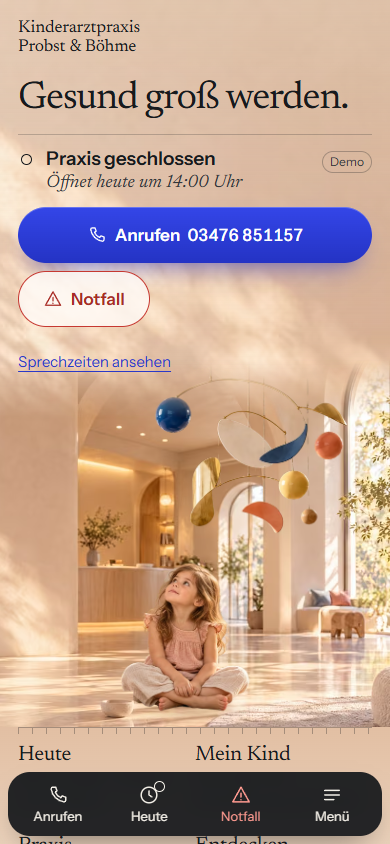
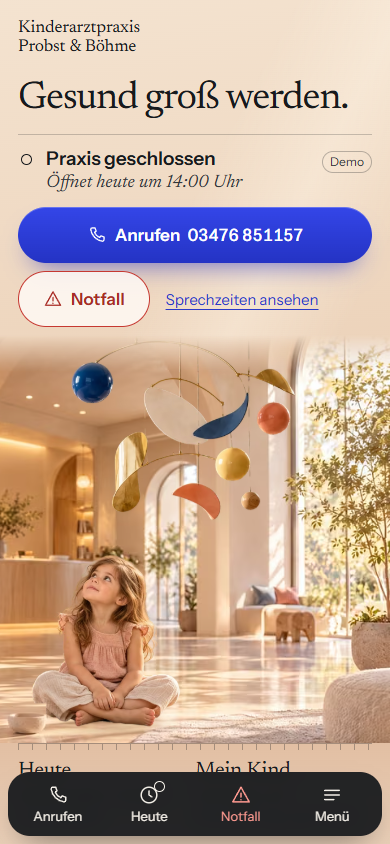
fix: mobile hero shows the room once, without duplicated architecture
Phones/portrait used the room photo twice at two scales (wall behind the
text zone + a band cropped from 36 %), stacking the wall corner and opening
arch into an impossible room. Now: plain CSS plaster wall for the text zone
and one controlled crop of the master's right half (corridor, window,
mobile, child) for the scene band. Follow-up link moved beside Notfall.
Desktop unchanged.

diff --git a/src/lab/final/signature.module.css b/src/lab/final/signature.module.css
@@ -73,11 +73,13 @@
   position: relative;
   display: flex;
   flex-direction: column;
-  /* phones: the sunlit wall of the plate carries the text zone */
+  /* phones: a plain plaster wall in daylight carries the text zone. Pure CSS — no
+     photo here, so no architecture can appear twice (the room photo lives only in
+     the scene band below). Light falls in from the window side (right). */
   background:
-    linear-gradient(180deg, rgb(246 231 214 / 0.55) 0%, rgb(246 231 214 / 0.2) 40%, transparent 70%),
-    image-set(url("/hero/room-960.avif") type("image/avif"), url("/hero/room-960.webp") type("image/webp")) 9% 0 / auto 780px no-repeat,
-    var(--wall);
+    radial-gradient(90% 55% at 100% 100%, rgb(255 241 222 / 0.75) 0%, transparent 70%),
+    linear-gradient(118deg, transparent 38%, rgb(255 246 232 / 0.4) 52%, transparent 66%),
+    linear-gradient(170deg, #f4e3d0 0%, var(--wall) 55%, #e8c9ad 100%);
 }
 .content {
   order: 1;
@@ -88,23 +90,27 @@
   /* clears the header; rem so it grows with enlarged text */
   padding: calc(var(--space-5) + 4rem) var(--space-gutter) 0;
 }
+/* Phones / portrait: ONE controlled crop of the master — its right half only
+   (x 50–100 %, y 4–96.5 %): corridor, window, mobile and child, each exactly once.
+   The wall corner and the big opening arch (x < 50 %) are deliberately excluded,
+   so nothing repeats the wall zone above. Never stretched, tiled or extended. */
 .scene {
   order: 2;
   position: relative;
   z-index: 1;
-  --bw: 172%;
-  height: calc(min(172vw, 64rem) / 1.7684 * 0.97);
-  margin-top: calc(-1 * var(--space-6));
+  --bw: 200%;
+  aspect-ratio: 1 / 1.0461; /* = 0.5 × 2688 wide : 0.925 × 1520 high */
+  margin-top: var(--space-3);
   overflow: hidden;
-  -webkit-mask-image: linear-gradient(180deg, transparent 0, #000 16%);
-  mask-image: linear-gradient(180deg, transparent 0, #000 16%);
+  -webkit-mask-image: linear-gradient(180deg, transparent 0, #000 9%);
+  mask-image: linear-gradient(180deg, transparent 0, #000 9%);
 }
 .frame {
   position: absolute;
   aspect-ratio: 2688 / 1520;
   width: var(--bw);
-  left: calc((100% - var(--bw)) * 0.86);
-  top: 0;
+  left: -100%;
+  top: -4.32%; /* 4 % of the frame height, expressed in scene height */
 }
 .plate {
   position: absolute;
@@ -339,19 +345,17 @@
   background: #fff;
 }
 .follow {
-  margin: 0;
-  font-size: var(--text-small);
-}
-.follow a {
   display: inline-flex;
   align-items: center;
   min-height: var(--target-min);
+  padding: 0 var(--space-2);
+  font-size: var(--text-small);
   color: #2a39c8;
   text-underline-offset: 4px;
 }
 .call:focus-visible,
 .emergency:focus-visible,
-.follow a:focus-visible,
+.follow:focus-visible,
 .path:focus-visible,
 .back:focus-visible,
 .menuButton:focus-visible,
@@ -592,10 +596,6 @@
   .paths {
     grid-template-columns: repeat(4, minmax(0, 1fr));
   }
-  .scene {
-    --bw: 150%;
-    height: calc(min(150vw, 96rem) / 1.7684 * 0.97);
-  }
 }
 
 /* ================= desktop composition ================= */
@@ -668,6 +668,7 @@
     position: absolute;
     inset: 0;
     height: auto;
+    aspect-ratio: auto;
     margin: 0;
     z-index: 0;
     container-type: size;

diff --git a/src/lab/final/hero-stage.tsx b/src/lab/final/hero-stage.tsx
@@ -122,12 +122,12 @@ export function HeroStage({ initial, children }: { initial: PathId | null; child
         <div className={s.scene} aria-hidden="true">
           <div className={s.frame}>
             <picture>
-              <source type="image/avif" srcSet="/hero/room-960.avif 960w, /hero/room-1600.avif 1600w, /hero/room-2400.avif 2400w" sizes="(max-width: 63.99em) 170vw, max(100vw, 177svh)" />
+              <source type="image/avif" srcSet="/hero/room-960.avif 960w, /hero/room-1600.avif 1600w, /hero/room-2400.avif 2400w" sizes="(max-width: 63.99em) 200vw, max(100vw, 177svh)" />
               <img
                 className={s.plate}
                 src="/hero/room-1600.webp"
                 srcSet="/hero/room-960.webp 960w, /hero/room-1600.webp 1600w, /hero/room-2400.webp 2400w"
-                sizes="(max-width: 63.99em) 170vw, max(100vw, 177svh)"
+                sizes="(max-width: 63.99em) 200vw, max(100vw, 177svh)"
                 width={W}
                 height={H}
                 alt=""
@@ -147,8 +147,8 @@ export function HeroStage({ initial, children }: { initial: PathId | null; child
               style={{ left: pct(MOBILE.x, W), top: pct(MOBILE.y, H), width: pct(MOBILE.w, W) }}
             >
               <picture>
-                <source type="image/avif" srcSet="/hero/mobile-420.avif 420w, /hero/mobile-830.avif 830w" sizes="(max-width: 63.99em) 55vw, 32vw" />
-                <img src="/hero/mobile-830.webp" srcSet="/hero/mobile-420.webp 420w, /hero/mobile-830.webp 830w" sizes="(max-width: 63.99em) 55vw, 32vw" width={MOBILE.w} height={MOBILE.h} alt="" decoding="async" />
+                <source type="image/avif" srcSet="/hero/mobile-420.avif 420w, /hero/mobile-830.avif 830w" sizes="(max-width: 63.99em) 62vw, 32vw" />
+                <img src="/hero/mobile-830.webp" srcSet="/hero/mobile-420.webp 420w, /hero/mobile-830.webp 830w" sizes="(max-width: 63.99em) 62vw, 32vw" width={MOBILE.w} height={MOBILE.h} alt="" decoding="async" />
               </picture>
               {el ? (
                 <span
@@ -160,12 +160,12 @@ export function HeroStage({ initial, children }: { initial: PathId | null; child
 
             {/* the child, seated low, looking up at the mobile */}
             <picture>
-              <source type="image/avif" srcSet="/hero/child-300.avif 300w, /hero/child-570.avif 570w" sizes="(max-width: 63.99em) 36vw, 22vw" />
+              <source type="image/avif" srcSet="/hero/child-300.avif 300w, /hero/child-570.avif 570w" sizes="(max-width: 63.99em) 43vw, 22vw" />
               <img
                 className={s.child}
                 src="/hero/child-570.webp"
                 srcSet="/hero/child-300.webp 300w, /hero/child-570.webp 570w"
-                sizes="(max-width: 63.99em) 36vw, 22vw"
+                sizes="(max-width: 63.99em) 43vw, 22vw"
                 width={CHILD.w}
                 height={CHILD.h}
                 alt=""

diff --git a/src/lab/final/entry-chrome.tsx b/src/lab/final/entry-chrome.tsx
@@ -67,12 +67,13 @@ export function PulsStatement({ puls }: { puls: DemoPuls }) {
           <Icon name="alert" size={20} />
           <span>Notfall</span>
         </a>
+        {/* the state's follow-up sits beside Notfall when there is room */}
+        {follow ? (
+          <a className={s.follow} href={FOLLOW_UP[follow.kind]}>
+            {follow.label}
+          </a>
+        ) : null}
       </div>
-      {follow ? (
-        <p className={s.follow}>
-          <a href={FOLLOW_UP[follow.kind]}>{follow.label}</a>
-        </p>
-      ) : null}
     </section>
   );
 }

diff --git a/docs/reviews/phase-06-2-reference-to-code-review.md b/docs/reviews/phase-06-2-reference-to-code-review.md
@@ -186,3 +186,33 @@ Photographic, from the plate. Code adds only:
 - `npm run build` ✓ · `npm run typecheck` ✓ · `npm test` 75 / 75 ✓
 - Routes 200: `/`, `/lab`, `/lab/a`, `/lab/b`, `/lab/c`, `/lab/final`, `/design-system`
 - PRAXIS PULS logic unchanged (domain untouched; all five demo states render).
+
+---
+
+## Addendum — mobile hero correction (Phase 06.2)
+
+**Problem:** on narrow/portrait layouts the room's architecture appeared more than once (wall + opening + reception stacked into an impossible room).
+
+**Root cause:** the phone layout used the room image twice at two different scales:
+- as a CSS background behind the text zone, showing the left wall;
+- in the scene band, which cropped from ≈ 36 % of the width.
+
+The band therefore repeated the wall corner and the large opening arch directly under the wall zone — two crops of one room stacked vertically. The desktop composition was not affected.
+
+**Implementation change (phones and portrait tablets, < 64em only):**
+- **Text zone:** a plain CSS plaster wall in daylight (warm gradient, soft diagonal light, window glow from the right). No photo, so no architecture.
+- **Scene band:** exactly one controlled crop of the master: its right half (x 50–100 %, y 4–96.5 %). It shows the corridor, the window light, the mobile and the child, each once. The crop is fixed by aspect ratio; never stretched, tiled or extended.
+- **Band top:** a short 9 % fade into the wall.
+- **Follow-up link** ("Sprechzeiten ansehen" etc.): now sits beside Notfall in the action row, which frees vertical space so the band does not start under the controls.
+- **Image `sizes`:** updated for the new crop.
+
+**Behaviour:**
+- **360 × 800:** headline on two lines, status, Anrufen, then Notfall with the link beside it. The band shows the mobile (including the cobalt sphere) and the child directly below it; the child's feet stay above the dock.
+- **390 × 844 / 430 × 932:** the same composition with more air; the paths begin at the dock.
+- No duplicated entrance, window or arch; no seams; no stretched background; no child or dock collisions (23 captures, 0 audit issues).
+
+**Intentionally hidden on mobile:** the wall corner and the large opening arch (master x < 50 %), most of the reception area, the left wall's photographic leaf shadows (replaced by CSS daylight), and the far-left room depth. The full composition remains on desktop.
+
+**Desktop:** unchanged; the shared `.follow` link now sits in the action row and wraps below the buttons as before.
+
+Screenshots: [`mobile-hero-360-390-430.png`](phase-06-2/screenshots/mobile-hero-360-390-430.png), `final-open-{360x800,390x844,430x932}.png`, `final-scene-band-390x844.png`.
